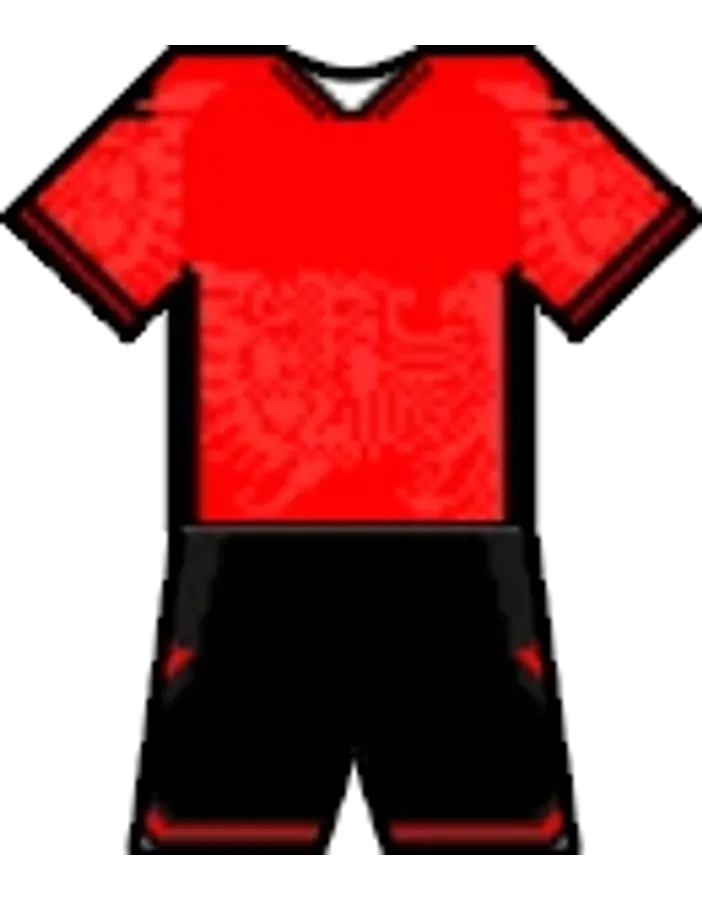
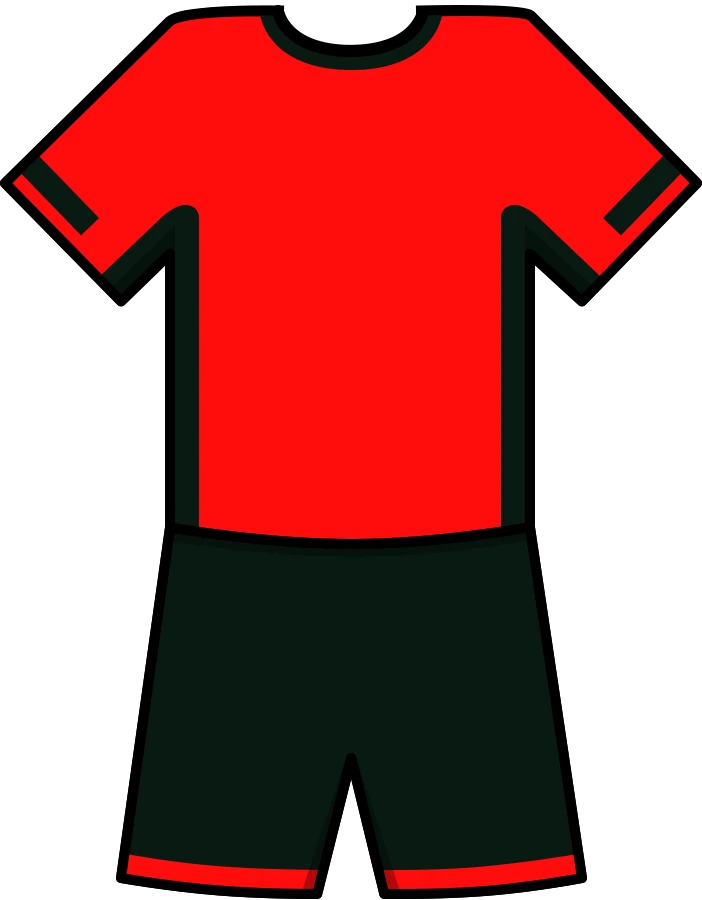
Update team kit assets and colors

diff --git a/src/data/teamKits.ts b/src/data/teamKits.ts
@@ -70,7 +70,7 @@ export const DEFAULT_SHIRT_NUMBER_STYLE = {
 // shirtNumberColor — цвет номера (необязательный, по умолчанию используется secondaryColor).
 // Чтобы задать shirtNumberColor без обводки, укажите undefined на месте shirtNumberStrokeColor.
 const TEAM_KIT_STYLE_ROWS = [
-  ['al', '#D71920', '#111111', '#FFFFFF', '#111111'],
+  ['al', '#D71920', '#111111', '#FFFFFF', undefined],
   ['dz', '#00843D', '#FFFFFF', '#00843D', undefined],
   [
     'ar',
@@ -81,12 +81,12 @@ const TEAM_KIT_STYLE_ROWS = [
     '#111111' // shirtNumberColor: основной цвет номера
   ],
   ['am', '#D90012', '#0033A0', '#FFFFFF', '#111111', '#FFFFFF'],
-  ['au', '#FFCD00', '#00843D', '#006747', '#FFFFFF'],
+  ['au', '#FFCD00', '#05573D', '#006747', '#FFFFFF'],
   ['at', '#ED2939', '#FFFFFF', '#FFFFFF', '#111111'],
-  ['by', '#D22730', '#007C4C', '#FFFFFF', '#111111', '#FFFFFF'],
+  ['by', '#D22730', '#007C4C', '#FFFFFF', undefined, '#FFFFFF'],
   ['be', '#E30613', '#FFCD00', '#FFCD00', '#111111'],
   ['br', '#FFDF00', '#049C42', '#003CB1', undefined],
-  ['cm', '#007A5E', '#FCD116', '#FCD116', '#111111'],
+  ['cm', '#007A5E', '#FCD116', '#FCD116', undefined],
   ['ca', '#D80621', '#FFFFFF', '#FFFFFF', undefined],
   ['cl', '#D52B1E', '#0039A6', '#FFFFFF', '#FFFFFF', '#0039A6'],
   ['co', '#FCD116', '#003893', '#003893', '#FFFFFF'],
